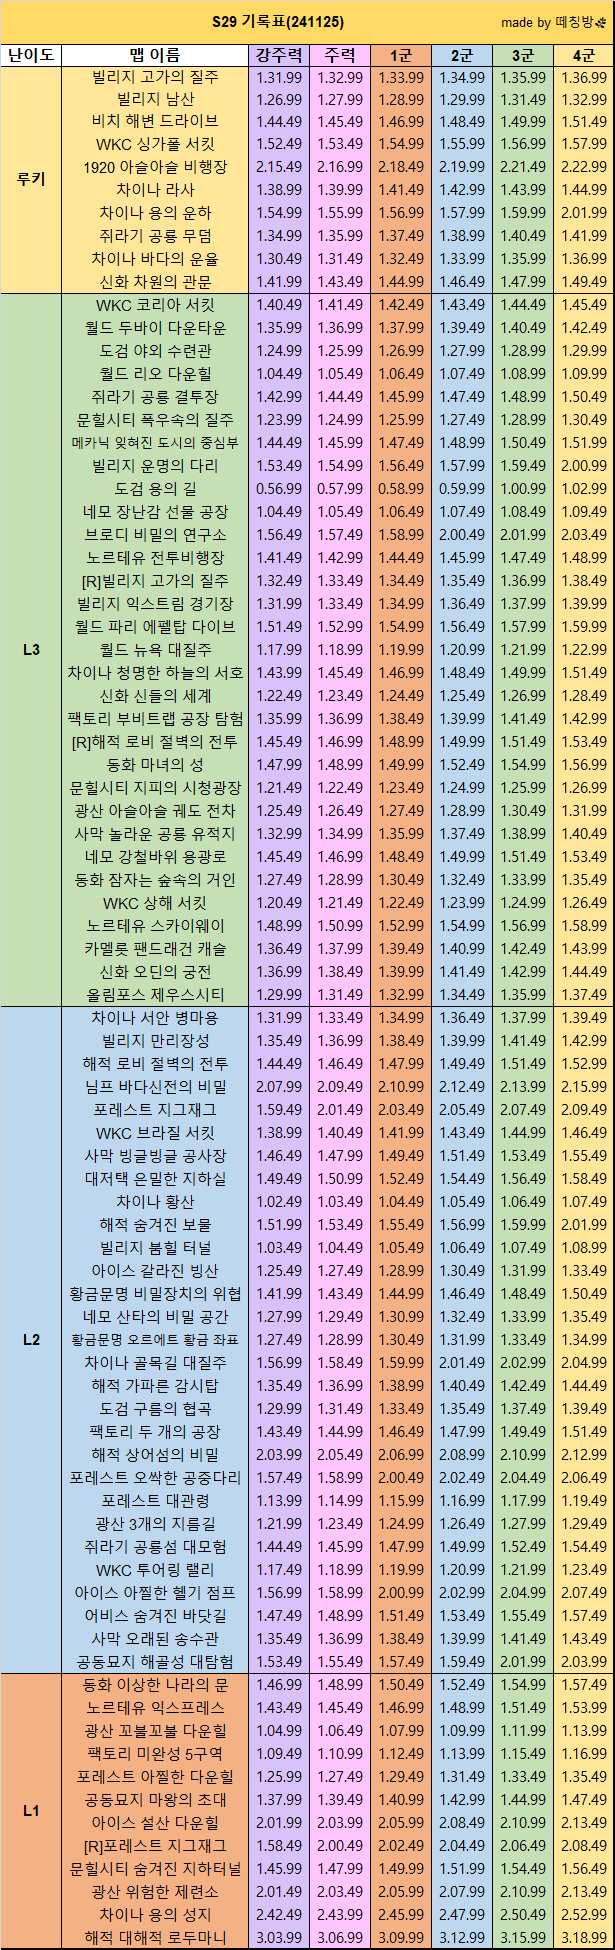
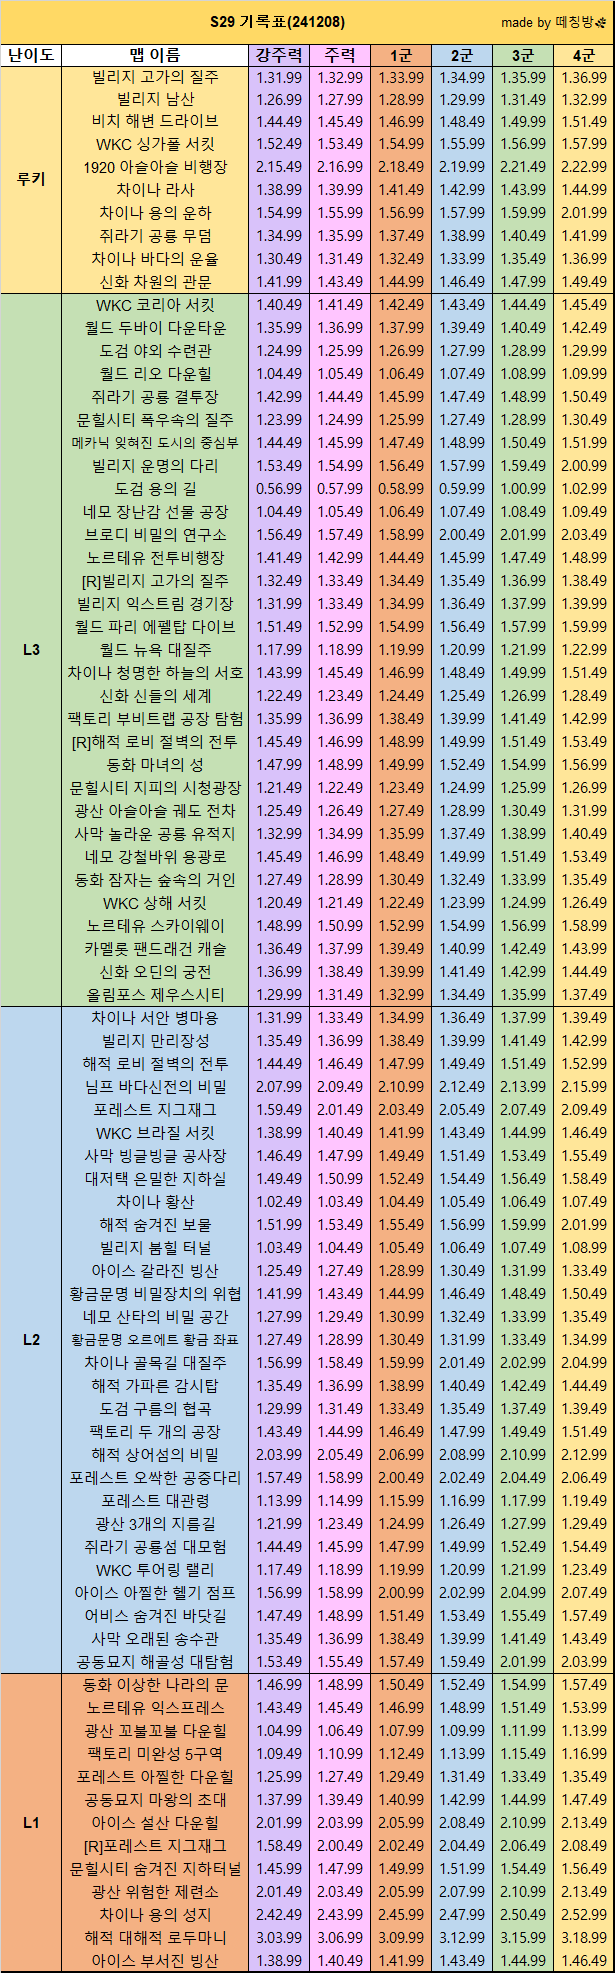
[frontend] feat: New S29 track

diff --git a/client/src/global/mapData.js b/client/src/global/mapData.js
@@ -110,7 +110,7 @@ const mapData = [
       "01:31:49",
       "01:32:49",
       "01:33:99",
-      "01:35:99",
+      "01:35:49",
       "01:36:99",
       "01:36:99 +",
     ],
@@ -1081,13 +1081,26 @@ const mapData = [
     ],
     image: "012 해적 대해적 로두마니.png",
   },
+  {
+    name: "아이스 부서진 빙산",
+    record: [
+      "01:38:99",
+      "01:40:49",
+      "01:41:99",
+      "01:43:49",
+      "01:44:99",
+      "01:46:49",
+      "01:46:49 +",
+    ],
+    image: "013 아이스 부서진 빙산.png",
+  },
 ];
 
 const mapCount = {
   Rookie: 10,
   L3: 31,
   L2: 29,
-  L1: 12,
+  L1: 13,
 };
 const mapAllCount = Object.values(mapCount).reduce((a, b) => a + b, 0);
 const season = 29;

diff --git a/client/src/global/mapImages.js b/client/src/global/mapImages.js
@@ -84,6 +84,7 @@ import L1_009 from "../assets/images/map/009 문힐시티 숨겨진 지하터널
 import L1_010 from "../assets/images/map/010 광산 위험한 제련소.png";
 import L1_011 from "../assets/images/map/011 차이나 용의 성지.png";
 import L1_012 from "../assets/images/map/012 해적 대해적 로두마니.png";
+import L1_013 from "../assets/images/map/013 아이스 부서진 빙산.png";
 
 const mapImages = [
   Rookie_001,
@@ -172,6 +173,7 @@ const mapImages = [
   L1_010,
   L1_011,
   L1_012,
+  L1_013,
 ];
 
 export default mapImages;
